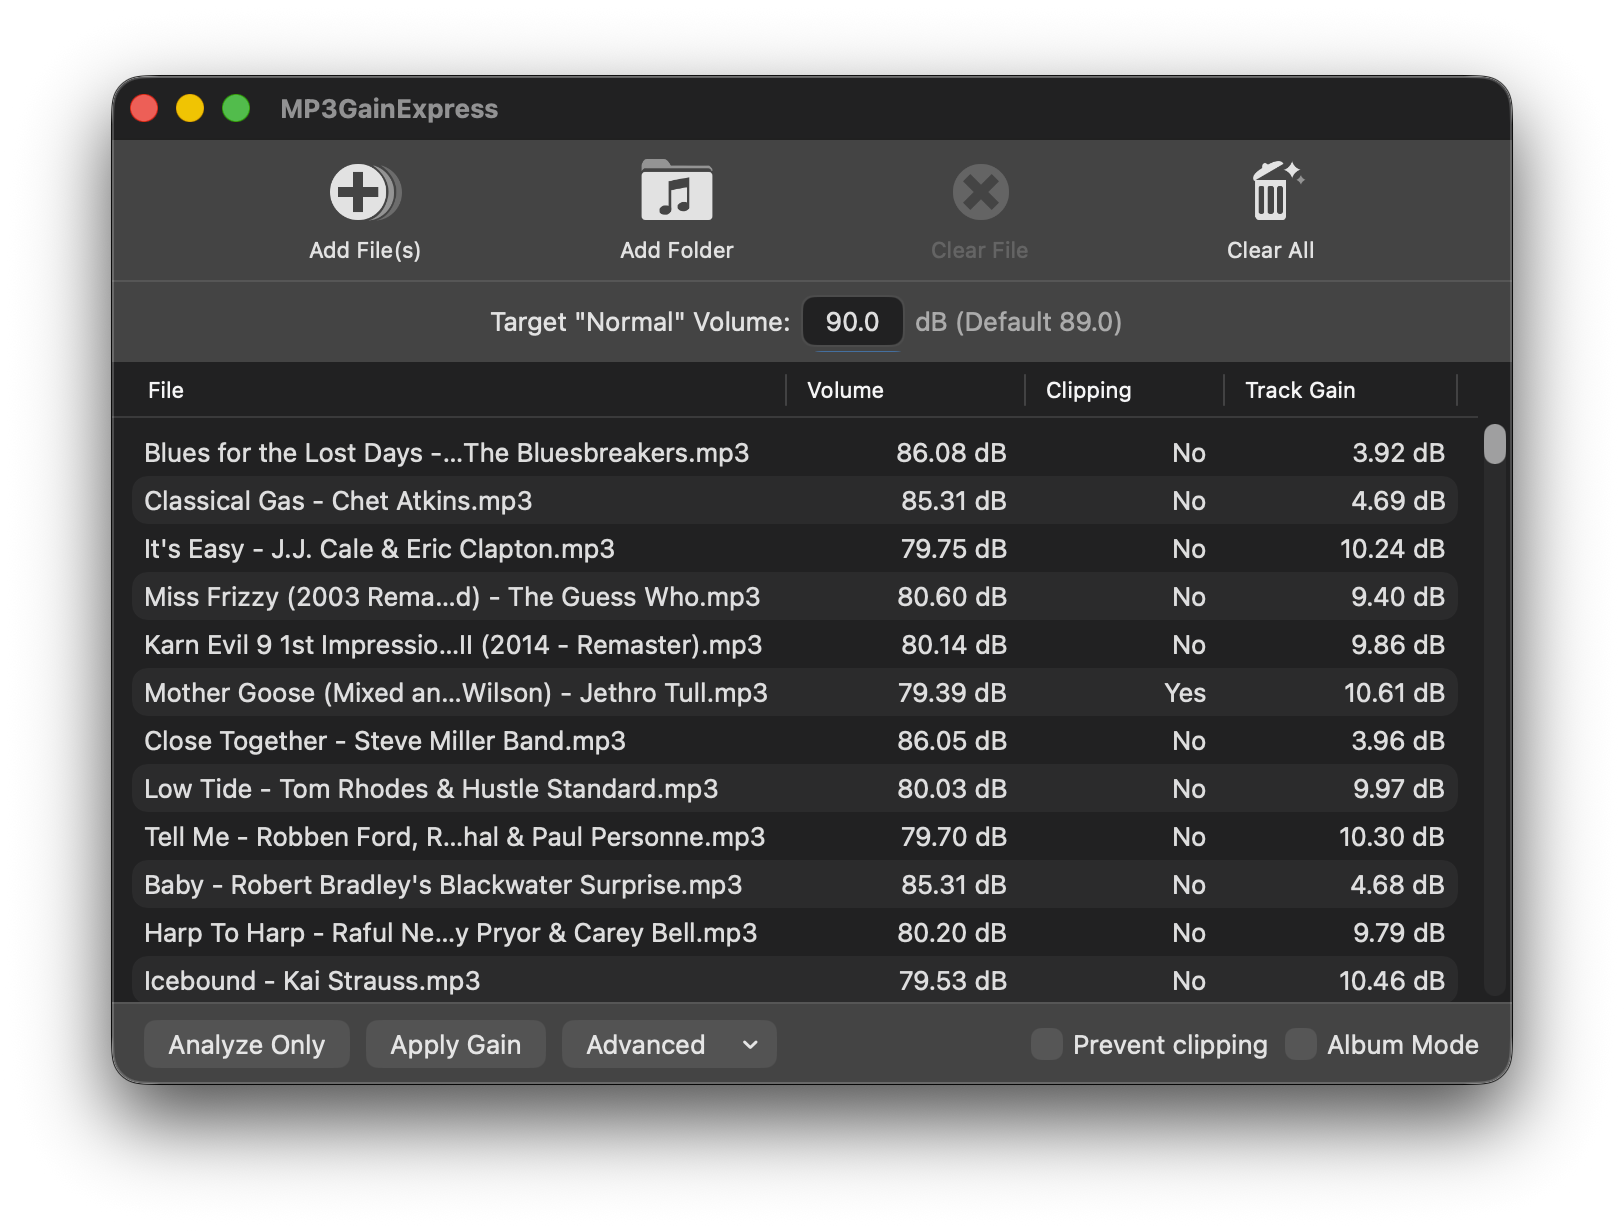
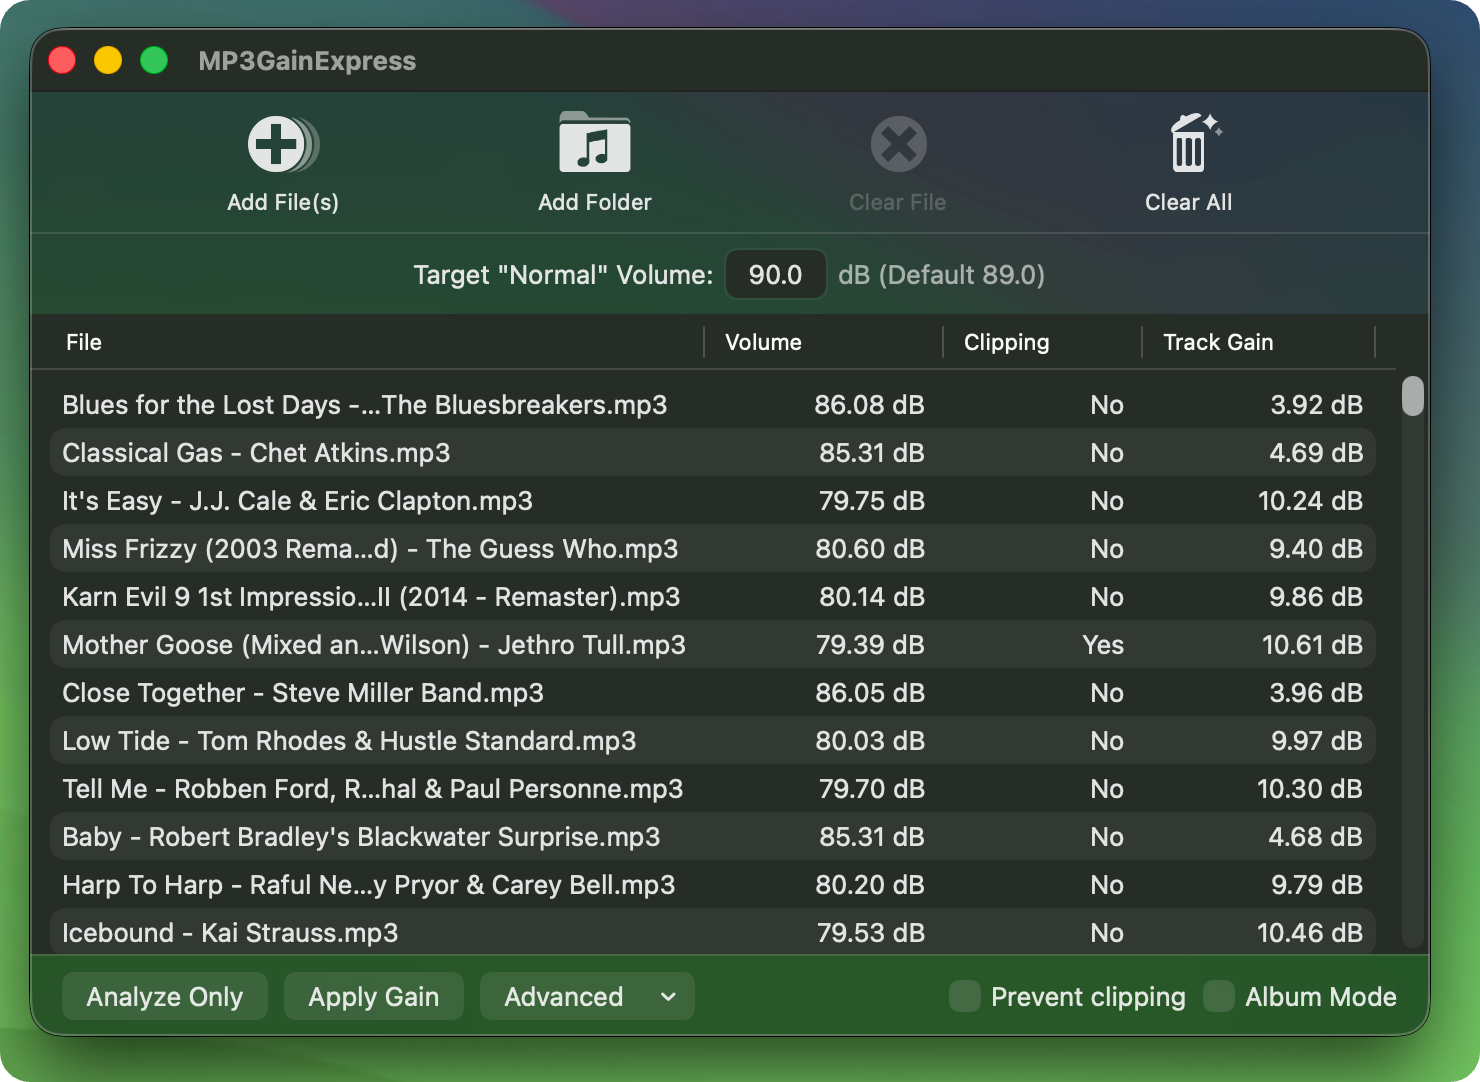
Replace screenshots and update README

diff --git a/README.md b/README.md
@@ -5,8 +5,6 @@ MP3Gain Express for macOS.
 
 ![Main window](Images/Screenshots/Window1-swiftui.png)
 
-![Main window](Images/Screenshots/Window2-swiftui.png)
-
 **Note**: *Paul Kratt* is the developer of MP3GainOSX. This is the content of the original README. At the end you can read the changes I've made to the project.
 
 ## Credits
